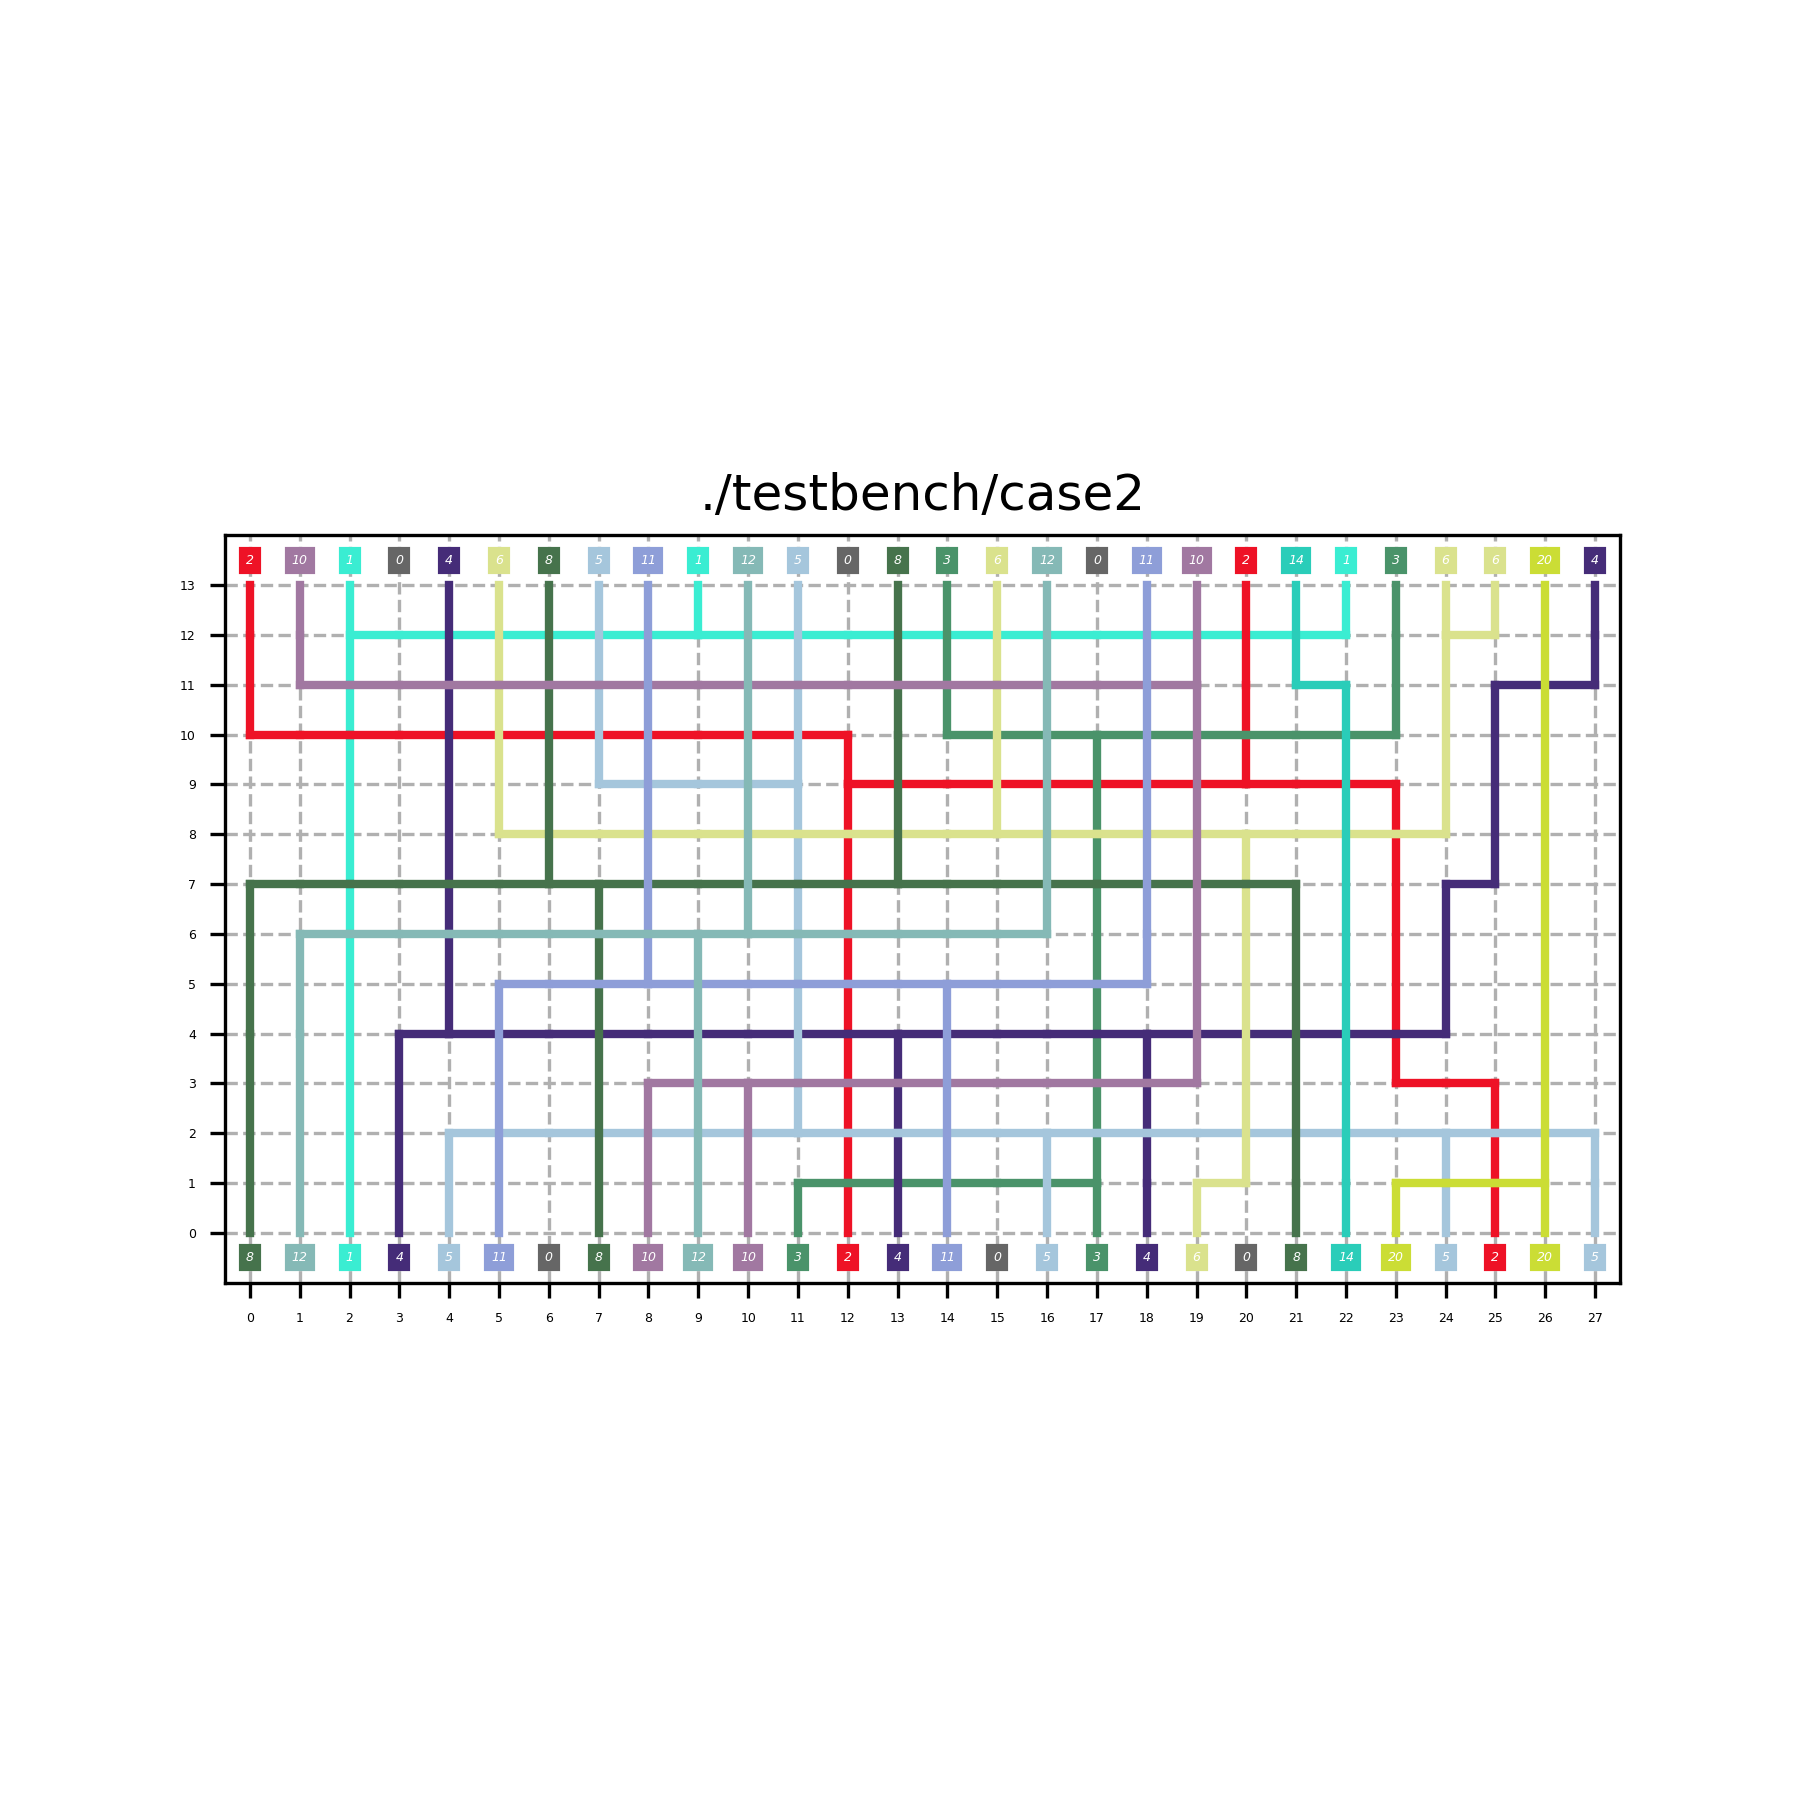
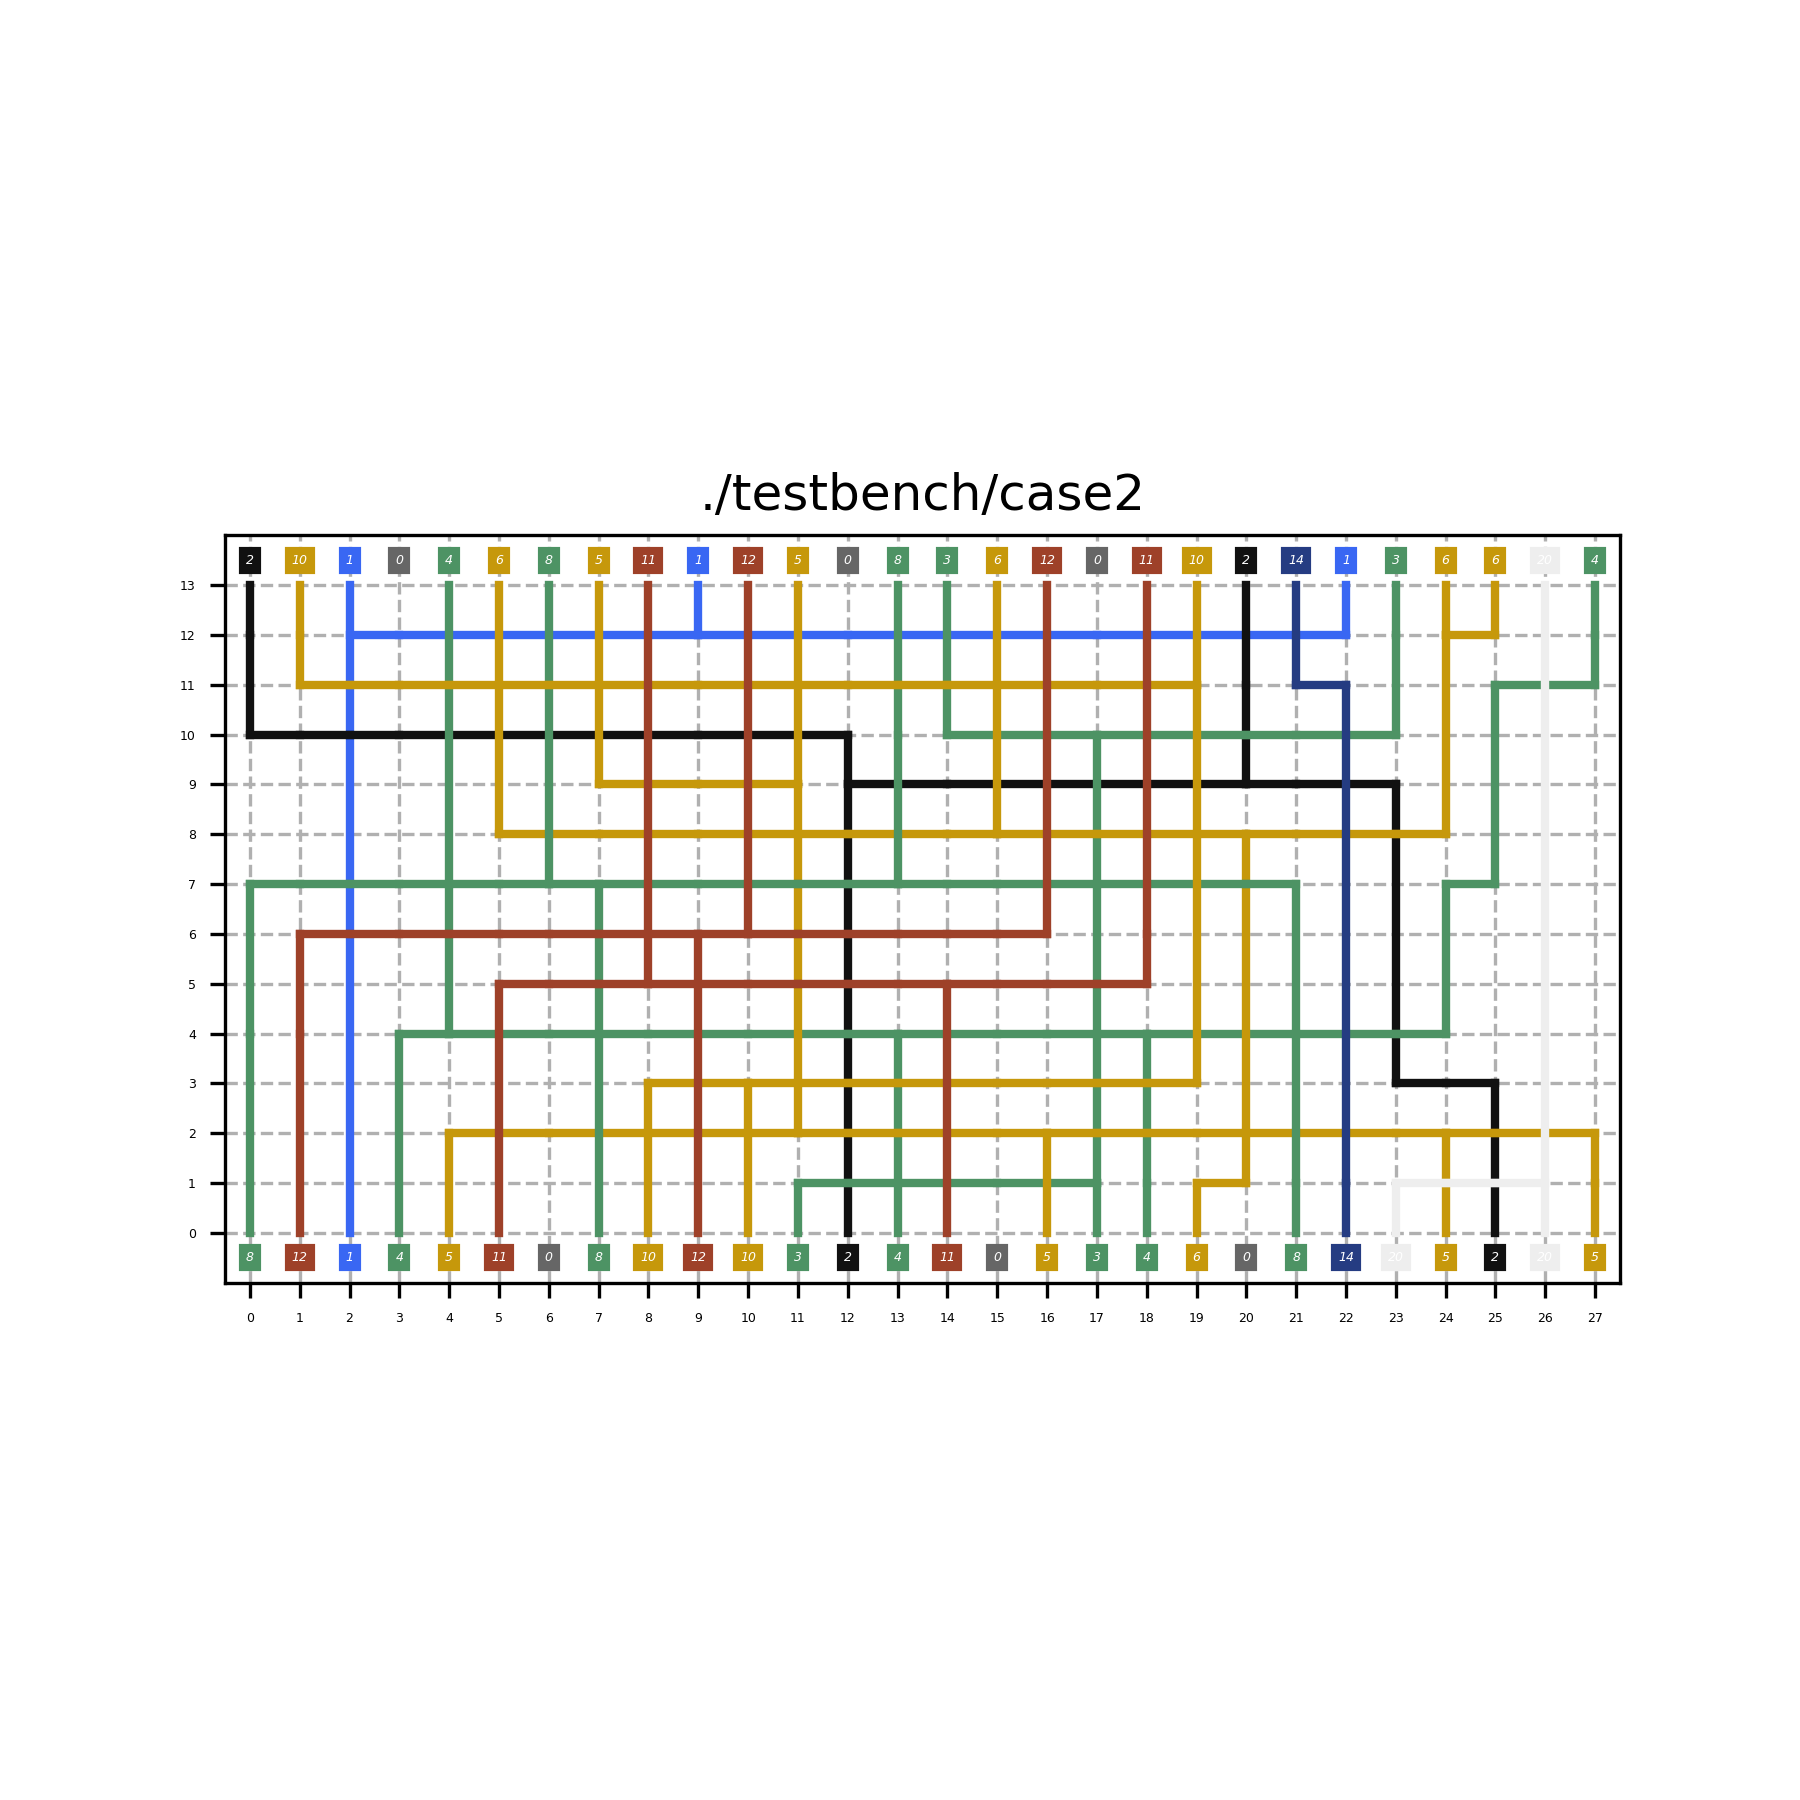
[Lab1] update color

Changed region(s): [[0.1244, 0.28, 0.9022, 0.7156]]

diff --git a/Lab1/plotter.py b/Lab1/plotter.py
@@ -4,24 +4,11 @@ import random
 import matplotlib.pyplot as plt
 import argparse
 
-def int_to_color(net_id):
-    color_str = "#"
+def int_to_color(net_id, total):
     random.seed(net_id)
-    for _ in range(6):
-        number = random.randint(1, 14)
-        if number == 14:
-            color_str += "E"
-        elif number == 13:
-            color_str += "D"
-        elif number == 12:
-            color_str += "C"
-        elif number == 11:
-            color_str += "B"
-        elif number == 10:
-            color_str += "A"
-        else:
-            color_str += str(number)
-
+    idx = random.randint(0, total-1)
+    color = 0x111111 + (0xEEEEEE - 0x111111) * idx // (total-1)
+    color_str = f"#{color:06X}"
     return color_str
 
 def draw_line(plt, x1 ,y1 ,x2 ,y2 ,color):
@@ -54,15 +41,15 @@ def draw_img(top_row, bottom_row, nets_segment, maze_x_range, maze_y_range, titl
     for i in range(len(top_row)):
         now_color = "#666666"
         if top_row[i] != 0:
-            now_color = int_to_color(top_row[i])
+            now_color = int_to_color(top_row[i], len(nets_segment))
         plt.text(i, maze_y_range[1] + 0.5, str(top_row[i]), fontstyle='oblique',backgroundcolor=now_color,color="#FFFFFF", horizontalalignment='center', verticalalignment='center', fontsize = 3)
         now_color = "#666666"
         if bottom_row[i] != 0:
-            now_color = int_to_color(bottom_row[i])
+            now_color = int_to_color(bottom_row[i], len(nets_segment))
         plt.text(i, -0.5 , str(bottom_row[i]), fontstyle='oblique',backgroundcolor=now_color,color="#FFFFFF", horizontalalignment='center', verticalalignment='center', fontsize = 3)
     
     for net_name, segments in nets_segment.items():
-        net_color = int_to_color(int(net_name))
+        net_color = int_to_color(int(net_name), len(nets_segment))
         for segment in segments:
             draw_line(plt,segment[0],segment[1],segment[2],segment[3],net_color)
     plt.gca().set_aspect('equal', adjustable='box')
